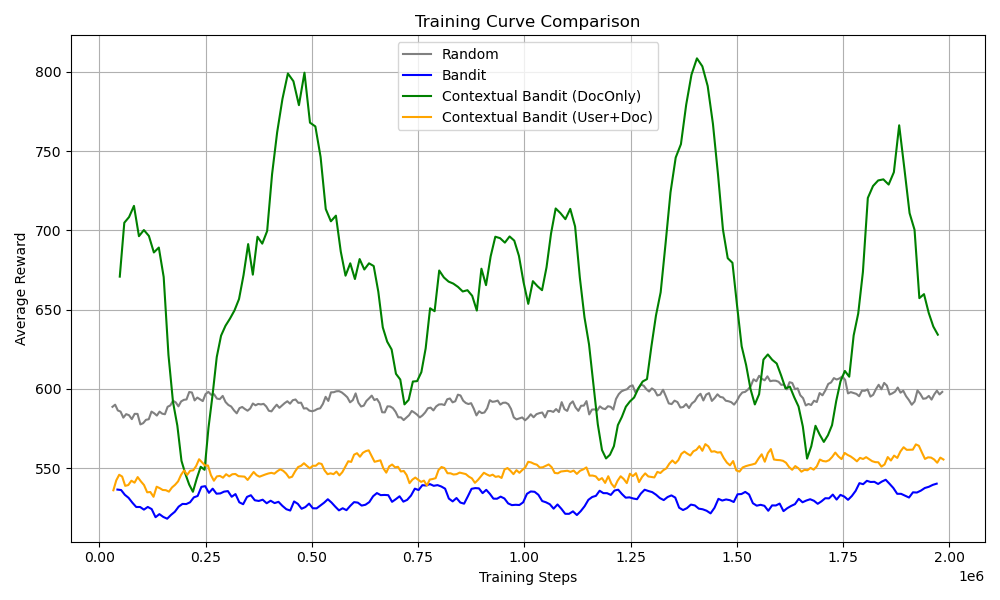
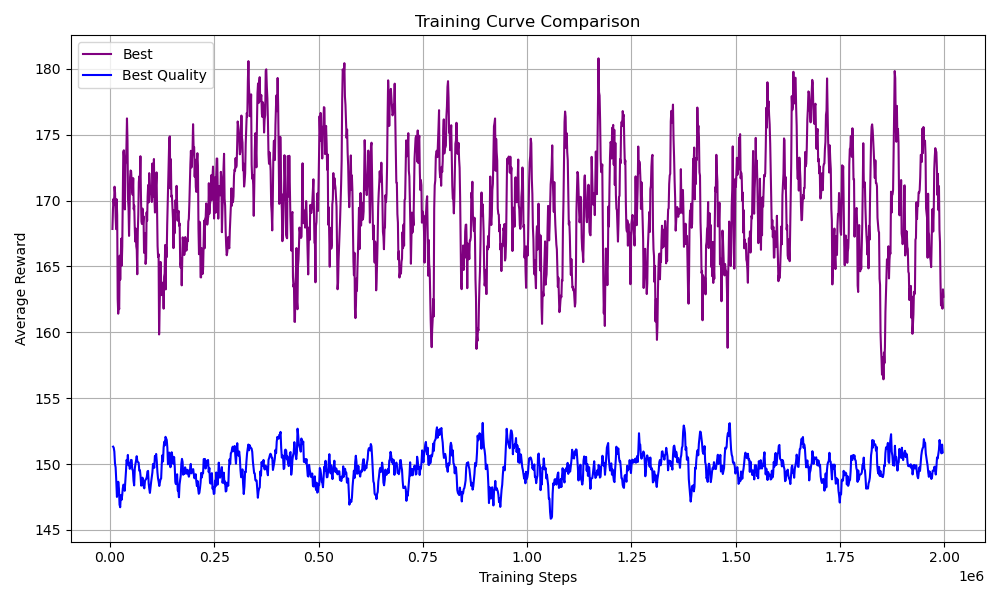
best agent and code clean up

diff --git a/main.py b/main.py
@@ -1,3 +1,4 @@
+#%%
 import os
 import numpy as np
 import shutil
@@ -5,13 +6,12 @@ import torch
 from pathlib import Path
 from runner import Runner
 import interest_evolution
-from bandit import BanditAgentWrapper
-from random_agent import RandomAgent
 
 
 #%%
 device = torch.device("cuda" if torch.cuda.is_available() else "cpu")
 print(f"Using device: {device}")
+
 #%% 
 seed = 0
 np.random.seed(seed)
@@ -22,7 +22,49 @@ env_config = {
     'resample_documents': True,
     'seed': seed,
 }
+
 #%%
+from best_policy import BestPolicyAgent
+def create_best_policy_agent(env, **kwargs):
+    obs = env.reset()
+    user_dim = obs['user'].shape[0]
+    
+    # doc is a dict: arm_id -> doc_vec
+    first_doc = next(iter(obs['doc'].values()))
+    doc_dim = first_doc.shape[0]
+    n_arms = len(obs['doc'])
+    slate_size = env_config['slate_size']
+    
+    return BestPolicyAgent(doc_dim=doc_dim, n_arms=n_arms, slate_size=slate_size)
+
+# --- Logging Directories ---
+tmp_base_dir = './logs/best_policy'
+train_log_dir = os.path.join(tmp_base_dir, 'train')
+eval_log_dir = os.path.join(tmp_base_dir, 'eval')
+
+# Clean up old logs
+for log_dir in [train_log_dir, eval_log_dir]:
+    if os.path.exists(log_dir):
+        shutil.rmtree(log_dir)
+Path(tmp_base_dir).mkdir(parents=True, exist_ok=True)
+
+# --- Environment ---
+env = interest_evolution.create_environment(env_config)
+
+# --- Runner ---
+runner_best = Runner(
+    base_dir=tmp_base_dir,
+    create_agent_fn=create_best_policy_agent,
+    env=env
+)
+
+# --- Run Training & Evaluation ---
+runner_best.run_training(max_training_steps=20000, num_iterations=100)
+runner_best.run_evaluation(max_eval_episodes=5)
+
+#%%
+from random_agent import RandomAgent
+
 tmp_base_dir = './logs/random'
 
 # Automatically delete train and eval directories if they exist
@@ -47,33 +89,35 @@ runner_random = Runner(
 )
 
 # --- Run training + evaluation ---
-runner_random.run_training(max_training_steps=20000, num_iterations=100)
+runner_random.run_training(max_training_steps=2000, num_iterations=100)
 runner_random.run_evaluation(max_eval_episodes=5)
 
 
 # %%
+from bandit import BanditAgentWrapper
+
 # UCB_Bandit 
 tmp_base_dir = './logs/UCB_bandit'
-def create_bandit_agent(env):
-    return BanditAgentWrapper(n_arms=env.action_space.nvec[0])
+def create_ucb_agent(env, c=1.0):
+    return BanditAgentWrapper(n_arms=env.action_space.nvec[0], c=c)
 
-# Delete and recreate directories
-train_log_dir = os.path.join(tmp_base_dir, 'train')
-eval_log_dir = os.path.join(tmp_base_dir, 'eval')
-for log_dir in [train_log_dir, eval_log_dir]:
-    if os.path.exists(log_dir):
-        shutil.rmtree(log_dir)
-Path(tmp_base_dir).mkdir(parents=True, exist_ok=True)
+for c_val in [0.1, 0.5, 1.0, 2.0]:
+    tmp_base_dir = f'./logs/UCB_bandit_c_{c_val}'
+    for log_dir in [os.path.join(tmp_base_dir, 'train'), os.path.join(tmp_base_dir, 'eval')]:
+        if os.path.exists(log_dir):
+            shutil.rmtree(log_dir)
+    Path(tmp_base_dir).mkdir(parents=True, exist_ok=True)
 
-# Run Bandit agent
-runner_bandit = Runner(
-    base_dir=tmp_base_dir,
-    create_agent_fn=create_bandit_agent,
-    env=interest_evolution.create_environment(env_config),
-)
+    runner_ucb = Runner(
+        base_dir=tmp_base_dir,
+        create_agent_fn=lambda env: create_ucb_agent(env, c=c_val),
+        env=interest_evolution.create_environment(env_config),
+    )
 
-runner_bandit.run_training(max_training_steps=20000, num_iterations=100)
-runner_bandit.run_evaluation(max_eval_episodes=5)
+    print(f"\n=== Running UCB Bandit with c = {c_val} ===")
+    runner_ucb.run_training(max_training_steps=2000, num_iterations=100)
+    runner_ucb.run_evaluation(max_eval_episodes=5)
+
 
 #%%
 # from contextual_bandit import ContextualBanditAgent

diff --git a/best_policy.py b/best_policy.py
@@ -1,44 +1,48 @@
 import numpy as np
 
 class BestPolicyAgent:
-    def __init__(self, simulate_response):
-        self.simulate_response = simulate_response
-        self.last_action = None
+    def __init__(self, doc_dim, n_arms, slate_size=2):
+        self.doc_dim = doc_dim
+        self.n_arms = n_arms
+        self.slate_size = slate_size
 
     def begin_episode(self, observation):
-        return [self.select_action(observation)]
+        return self.select_action(observation)
 
     def step(self, reward, observation):
-        return [self.select_action(observation)]
+        return self.select_action(observation)
 
     def end_episode(self, reward, observation=None):
         pass
 
     def select_action(self, observation):
-        user_vec = observation["user"]
-        doc_obs = observation["doc"]
+        user_vec = np.asarray(observation['user'], dtype=np.float32).flatten()
 
-        best_doc = None
-        best_watch_time = -1
+        doc_obs_raw = observation['doc']
+        doc_obs = {int(k): v for k, v in doc_obs_raw.items()}
+        sorted_doc_ids = sorted(doc_obs.keys())
+        doc_id_to_index = {doc_id: idx for idx, doc_id in enumerate(sorted_doc_ids)}
 
-        for doc_id in sorted(doc_obs.keys(), key=int):
-            doc_vec = doc_obs[doc_id]
-            clicked, watch_time = self.simulate_response(user_vec, doc_vec)
+        scores = []
+        for doc_id in sorted_doc_ids:
+            doc_vec = np.asarray(doc_obs[doc_id], dtype=np.float32).flatten()
+            affinity = np.dot(user_vec, doc_vec)
+            score = affinity
+            scores.append((doc_id, score))
 
-            if clicked and watch_time > best_watch_time:
-                best_doc = int(doc_id)
-                best_watch_time = watch_time
+        top_k = sorted(scores, key=lambda x: x[1], reverse=True)[:self.slate_size]
+        action = [doc_id_to_index[doc_id] for doc_id, _ in top_k]
 
-        self.last_action = best_doc if best_doc is not None else np.random.randint(len(doc_obs))
-        return self.last_action
-
+        return action
+    
     def bundle(self):
-        return {
-            'last_action': self.last_action
-        }
+        return None
 
     def unbundle(self, data):
-        if data is None:
-            return False
-        self.last_action = data.get('last_action', None)
-        return True
+        return False
+
+
+
+
+
+

diff --git a/bandit.py b/bandit.py
@@ -1,20 +1,25 @@
 import numpy as np
 
-import torch
-device = torch.device("cuda" if torch.cuda.is_available() else "cpu")
-
-
-class EpsilonGreedyBandit:
-    def __init__(self, n_arms, epsilon=0.1):
+class UCBBandit:
+    def __init__(self, n_arms, c=1.0):
         self.n_arms = n_arms
-        self.epsilon = epsilon
+        self.c = c
         self.counts = np.zeros(n_arms)
         self.values = np.zeros(n_arms)
+        self.total_pulls = 0
 
     def select_action(self, observation=None):
-        if np.random.rand() < self.epsilon:
-            return np.random.randint(self.n_arms)
-        return np.argmax(self.values)
+        self.total_pulls += 1
+
+        ucb_scores = np.zeros(self.n_arms)
+        for arm in range(self.n_arms):
+            if self.counts[arm] == 0:
+                return arm  # pull untried arms first
+            avg_reward = self.values[arm]
+            confidence = self.c * np.sqrt(np.log(self.total_pulls) / self.counts[arm])
+            ucb_scores[arm] = avg_reward + confidence
+
+        return int(np.argmax(ucb_scores))
 
     def update(self, action, reward):
         self.counts[action] += 1
@@ -23,20 +28,21 @@ class EpsilonGreedyBandit:
         self.values[action] += (reward - value) / n
 
 class BanditAgentWrapper:
-    def __init__(self, n_arms):
-        self.bandit = EpsilonGreedyBandit(n_arms)
+    def __init__(self, n_arms, c=1.0):
+        self.bandit = UCBBandit(n_arms, c)
+        self.last_action = None
 
     def begin_episode(self, observation):
-        action = self.bandit.select_action(observation)
-        return [action]  # assume slate format
+        self.last_action = self.bandit.select_action(observation)
+        return [self.last_action]
 
     def step(self, reward, observation):
-        action = self.bandit.select_action(observation)
-        self.bandit.update(action, reward)
-        return [action]
+        self.bandit.update(self.last_action, reward)
+        self.last_action = self.bandit.select_action(observation)
+        return [self.last_action]
 
     def end_episode(self, reward, observation=None):
-        pass  # bandit doesn't need this
+        self.bandit.update(self.last_action, reward)
 
     def bundle(self):
         return None

diff --git a/Visualization/visualization.py b/Visualization/visualization.py
@@ -39,25 +39,55 @@ def load_and_smooth_plot(path, label, color, window=200, stride=20):
 # === 配置路径、标签、颜色 ===
 models = [
     {
-        "path": "./logs/random/train/plot_data.json",
-        "label": "Random",
-        "color": "gray"
+        "path": "./logs/best_policy/train/plot_data.json",
+        "label": "Best",
+        "color": "purple"
     },
     {
-        "path": "./logs/UCB_bandit/train/plot_data.json",
-        "label": "Bandit",
+        "path": "./logs/best_policy_quality/train/plot_data.json",
+        "label": "Best Quality",
         "color": "blue"
-    },
-    {
-        "path": "./logs/Contextual_bandit_DocOnly/train/plot_data.json",
-        "label": "Contextual Bandit (DocOnly)",
-        "color": "green"
-    },
-    {
-        "path": "./logs/Contextual_bandit_UserDoc/train/plot_data.json",
-        "label": "Contextual Bandit (User+Doc)",
-        "color": "orange"
     }
+    # {
+    #     "path": "./logs/random/train/plot_data.json",
+    #     "label": "Random",
+    #     "color": "gray"
+    # },
+    # {
+    #     "path": "./logs/UCB_bandit_c_0.1/train/plot_data.json",
+    #     "label": "Bandit 0.1",
+    #     "color": "blue"
+    # },
+    # {
+    #     "path": "./logs/UCB_bandit_c_0.5/train/plot_data.json",
+    #     "label": "Bandit 0.5",
+    #     "color": "red"
+    # },
+    # {
+    #     "path": "./logs/UCB_bandit_c_1.0/train/plot_data.json",
+    #     "label": "Bandit 1.0",
+    #     "color": "purple"
+    # },
+    # {
+    #     "path": "./logs/UCB_bandit_c_2.0/train/plot_data.json",
+    #     "label": "Bandit 2.0",
+    #     "color": "green"
+    # },
+    # {
+    #     "path": "./logs/UCB_bandit/train/plot_data.json",
+    #     "label": "Bandit",
+    #     "color": "blue"
+    # },
+    # {
+    #     "path": "./logs/Contextual_bandit_DocOnly/train/plot_data.json",
+    #     "label": "Contextual Bandit (DocOnly)",
+    #     "color": "green"
+    # },
+    # {
+    #     "path": "./logs/Contextual_bandit_UserDoc/train/plot_data.json",
+    #     "label": "Contextual Bandit (User+Doc)",
+    #     "color": "orange"
+    # }
     # {
     #     "path": "./logs/naive_dqn/20000_200_1/train/plot_data.json",
     #     "label": "Naive DQN",

diff --git a/random_agent.py b/random_agent.py
@@ -8,31 +8,10 @@ class RandomAgent(agent.AbstractEpisodicRecommenderAgent):
     """An agent that recommends a random slate of documents."""
 
     def __init__(self, action_space, random_seed=0):
-        # print("[Agent Init] Action Space: ", action_space)
-        # [Agent Init] Action Space:  MultiDiscrete([10 10])
-        # print("[Agent Init] Slate size: ", action_space.shape) #2 
-        # super(RandomAgent, self).__init__(action_space)
         super().__init__(action_space)
         self._rng = np.random.RandomState(random_seed)
 
     def begin_episode(self, observation):
-        # print("\n[Begin Episode] Observation Keys:", observation.keys())
-        # Observation Keys: dict_keys(['user', 'doc', 'response'])
-        # if 'user' in observation:
-        #     print("[Begin Episode] User State:", observation['user'])
-        #     # [1,7] vectort
-        # if 'doc' in observation:
-        #     print(f"[Begin Episode] Number of Docs: {len(observation['doc'])}")
-        #     doc_obs = observation['doc']
-        #     if isinstance(doc_obs, dict):
-        #         first_key = next(iter(doc_obs))
-        #         print(f"[Begin Episode] One Doc Example (truncated): {doc_obs[first_key]}")
-        #     else:
-        #         print(f"[Begin Episode] Unknown doc format: {type(doc_obs)}")
-        #         # [1*7] vector
-        # if 'response' in observation:
-        #     print("[Begin Episode] Response State:", observation['response'])
-        # break
         return self._sample_random_slate(observation)
 
     def step(self, reward, observation):

diff --git a/interest_evolution.py b/interest_evolution.py
@@ -140,7 +140,7 @@ class UtilityModelUserSampler(user.AbstractUserSampler):
     def sample_user(self):
         features = {
             'user_interests': self._rng.uniform(-1.0, 1.0, self.get_user_ctor().NUM_FEATURES),
-            'time_budget': 800.0,
+            'time_budget': 200.0,
             'no_click_mass': self._no_click_mass,
             'step_penalty': 0.5,
             'score_scaling': 0.05,

diff --git a/helper/rec_gym.py b/helper/rec_gym.py
@@ -1,3 +1,5 @@
+#rec_gym.py
+
 import collections
 import numpy as np
 from gymnasium import Env, spaces

diff --git a/runner.py b/runner.py
@@ -1,3 +1,5 @@
+# runner.py
+
 import os
 import time
 import json
